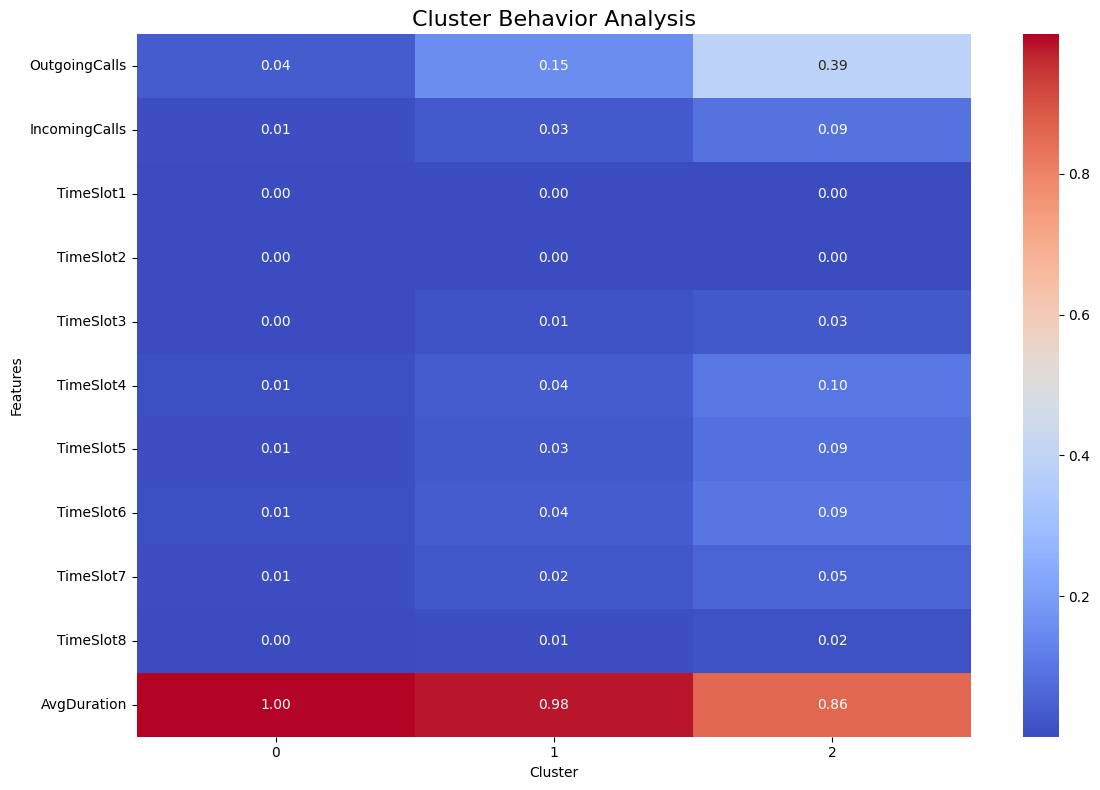
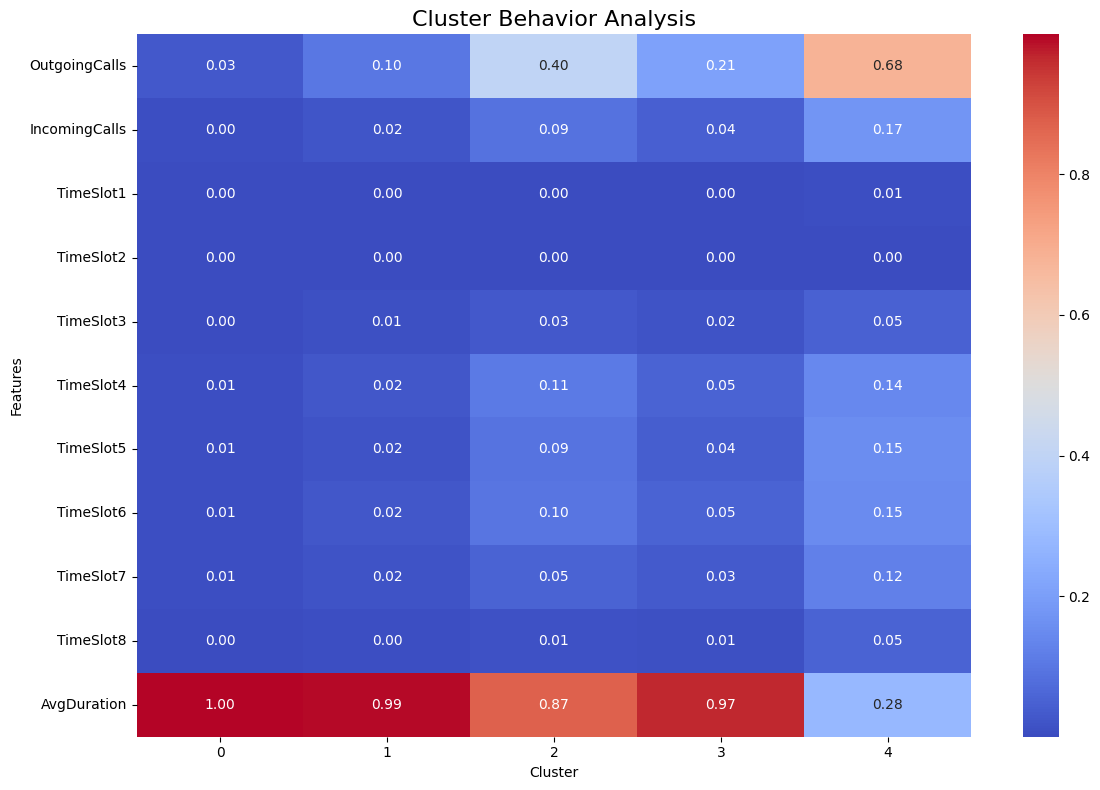
1

diff --git a/cluster/cluster.py b/cluster/cluster.py
@@ -6,6 +6,11 @@ import matplotlib.pyplot as plt
 import seaborn as sns
 
 
+# p到直线 ax + by + c = 0的距离
+def dist(p, a, b, c):
+    return abs(a * p[0] + b * p[1] + c) / (a * a + b * b)
+
+
 # 读取清洗过的数据
 def load_data(file_path):
     df = pd.read_csv(file_path, sep='\t', usecols=range(1, len(pd.read_csv(file_path, sep='\t', nrows=1).columns)))
@@ -14,7 +19,7 @@ def load_data(file_path):
 
 # 使用Normalization方法对数据进行归一化
 def normalize_features(df, features):
-    scaler = Normalizer() # 剩下三个归一化处理后都是L型的数据。。
+    scaler = Normalizer()  # 剩下三个归一化处理后都是L型的数据。。
     df = df.dropna(subset=features)  # 去掉这些包含NaN的行
     df[features] = scaler.fit_transform(df[features])
     return df
@@ -23,7 +28,9 @@ def normalize_features(df, features):
 # 使用肘部法则（Elbow Method）确定聚类数
 def find_optimal_k(df, features):
     inertia = []
-    k_range = range(2, 16)  # 测试从 2 到 10 个簇
+    l = 2
+    r = 17
+    k_range = range(l, r)  # 测试从 2 到 16 个簇
     for k in k_range:
         kmeans = KMeans(n_clusters=k, random_state=42, n_init=10, max_iter=100)
         kmeans.fit(df[features])
@@ -35,10 +42,19 @@ def find_optimal_k(df, features):
     plt.xlabel('number of clusters')
     plt.ylabel('inertia of clusters')
     plt.savefig("elbow.png", format='png', bbox_inches='tight')
-    # 返回肘部法则最佳 K 值
-    print(np.argmin(np.diff(inertia)))
+    # 选取到过两端点的直线的距离最大的点作为肘部
+    optimal_k = -1
+    max_dist = -1
+    a = inertia[r - l - 1] - inertia[0]
+    b = l - r + 1
+    c = 2 * (inertia[0] - inertia[r - l - 1]) + inertia[0] * (r - l - 1)
+    for k in range(l, r):
+        p = [k, inertia[k - l]]
+        d = dist(p, a, b, c)
+        if d > max_dist:
+            max_dist = d
+            optimal_k = k
 
-    optimal_k = k_range[np.argmin(np.diff(inertia)) + 1]  # 找到最佳的 K 值
     print(f"best k: {optimal_k}")
     return optimal_k
 
@@ -55,7 +71,7 @@ def perform_clustering(df, features, n_clusters=3):
 def plot_cluster_scatter(df, save_path=None):
     plt.figure(figsize=(10, 6))
     sns.scatterplot(data=df, x='IncomingCalls', y='OutgoingCalls', hue='Cluster', palette='viridis', s=100)
-    plt.title('scater plot based on outgoingCalls and incomingCalls', fontsize=16)
+    plt.title('scatter plot based on outgoingCalls and incomingCalls', fontsize=16)
     plt.xlabel('Incoming Calls', fontsize=14)
     plt.ylabel('Outgoing Calls', fontsize=14)
     plt.legend(title='scatter', fontsize=12)
